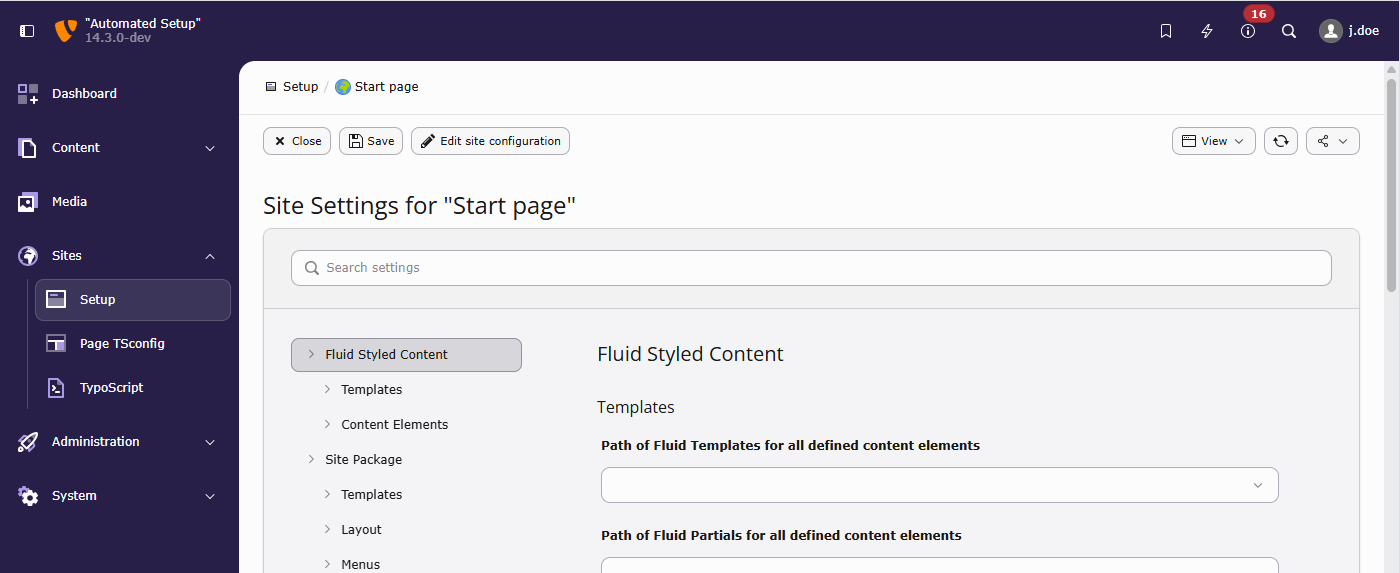
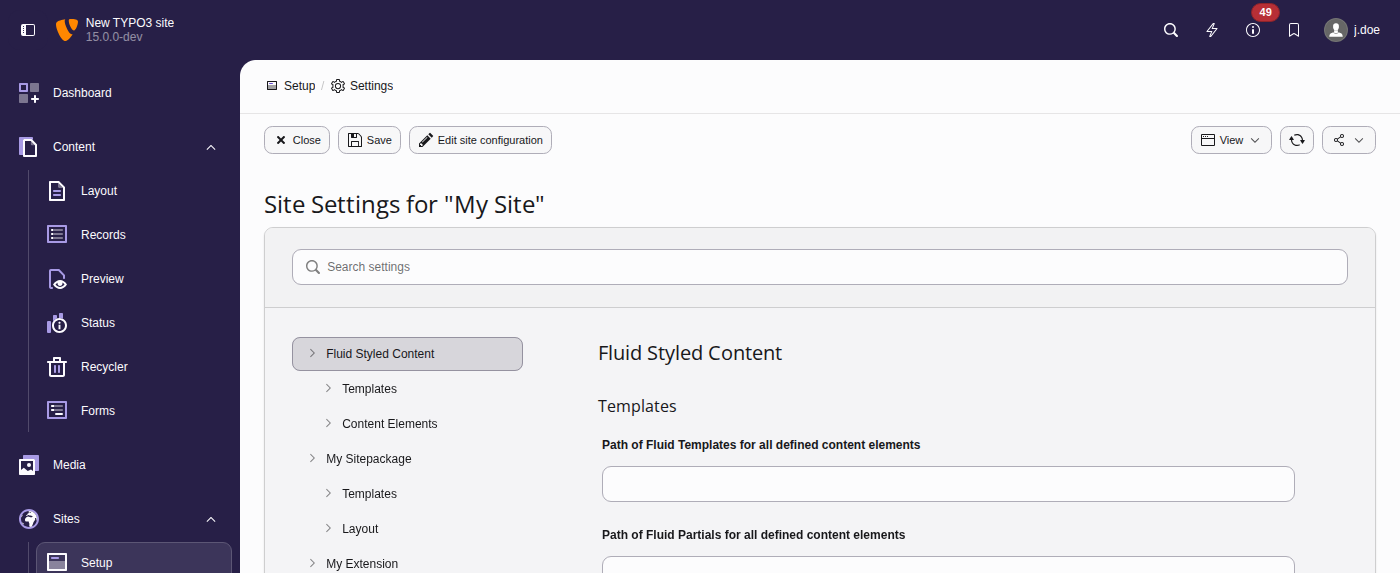
[TASK] Update the site settings editor screenshots
The screenshots showed TYPO3 14.3 and the "Blog Example" set. Retake
them on TYPO3 15 and rename the set in the definition example to
"My Extension", so the example and the image match.

Releases: main, 14.3
Assisted-by: Claude Opus 5.5 <noreply@anthropic.com>

diff --git a/Documentation/ApiOverview/SiteHandling/SiteSettingsEditor.rst b/Documentation/ApiOverview/SiteHandling/SiteSettingsEditor.rst
@@ -39,8 +39,8 @@ and subcategories to order the settings.
 ..  figure:: /Images/ManualScreenshots/SiteHandling/SiteSettings.png
     :alt: Screenshot of the settings of an example site
 
-    The site in the examples includes the "My Sitepackage" and "Blog Example"
-    sets. "My Sitepackage" depends on "Fluid Styled Content"
+    The site in the examples includes the "My Sitepackage" and "My Extension"
+    sets. "My Sitepackage" depends on "Fluid Styled Content".
 
 The editor displays only settings defined by an active set, for example in
 :file:`EXT:my_sitepackage/Configuration/Sets/MySitepackage/settings.definitions.yaml`.
@@ -93,7 +93,7 @@ appears:
     the submitted value. See :ref:`definition types <definition-types>`.
 
 7.  **Displayed value:** The field contains the effective value. In this
-    example no set or site overrides `blogExample.partialRootPath`, so TYPO3
+    example no set or site overrides `myExtension.partialRootPath`, so TYPO3
     displays the definition's `default` value.
 
 8.  **Reset value:** Resetting a field discards its site-specific override and
@@ -108,6 +108,6 @@ appears:
 
 The corresponding definition is:
 
-..  literalinclude:: _Settings/_blog_settings.definitions.yaml
-    :caption: EXT:my_extension/Configuration/Sets/BlogExample/settings.definitions.yaml (excerpt)
+..  literalinclude:: _Settings/_my_extension_settings.definitions.yaml
+    :caption: EXT:my_extension/Configuration/Sets/MyExtension/settings.definitions.yaml (excerpt)
     :linenos:
